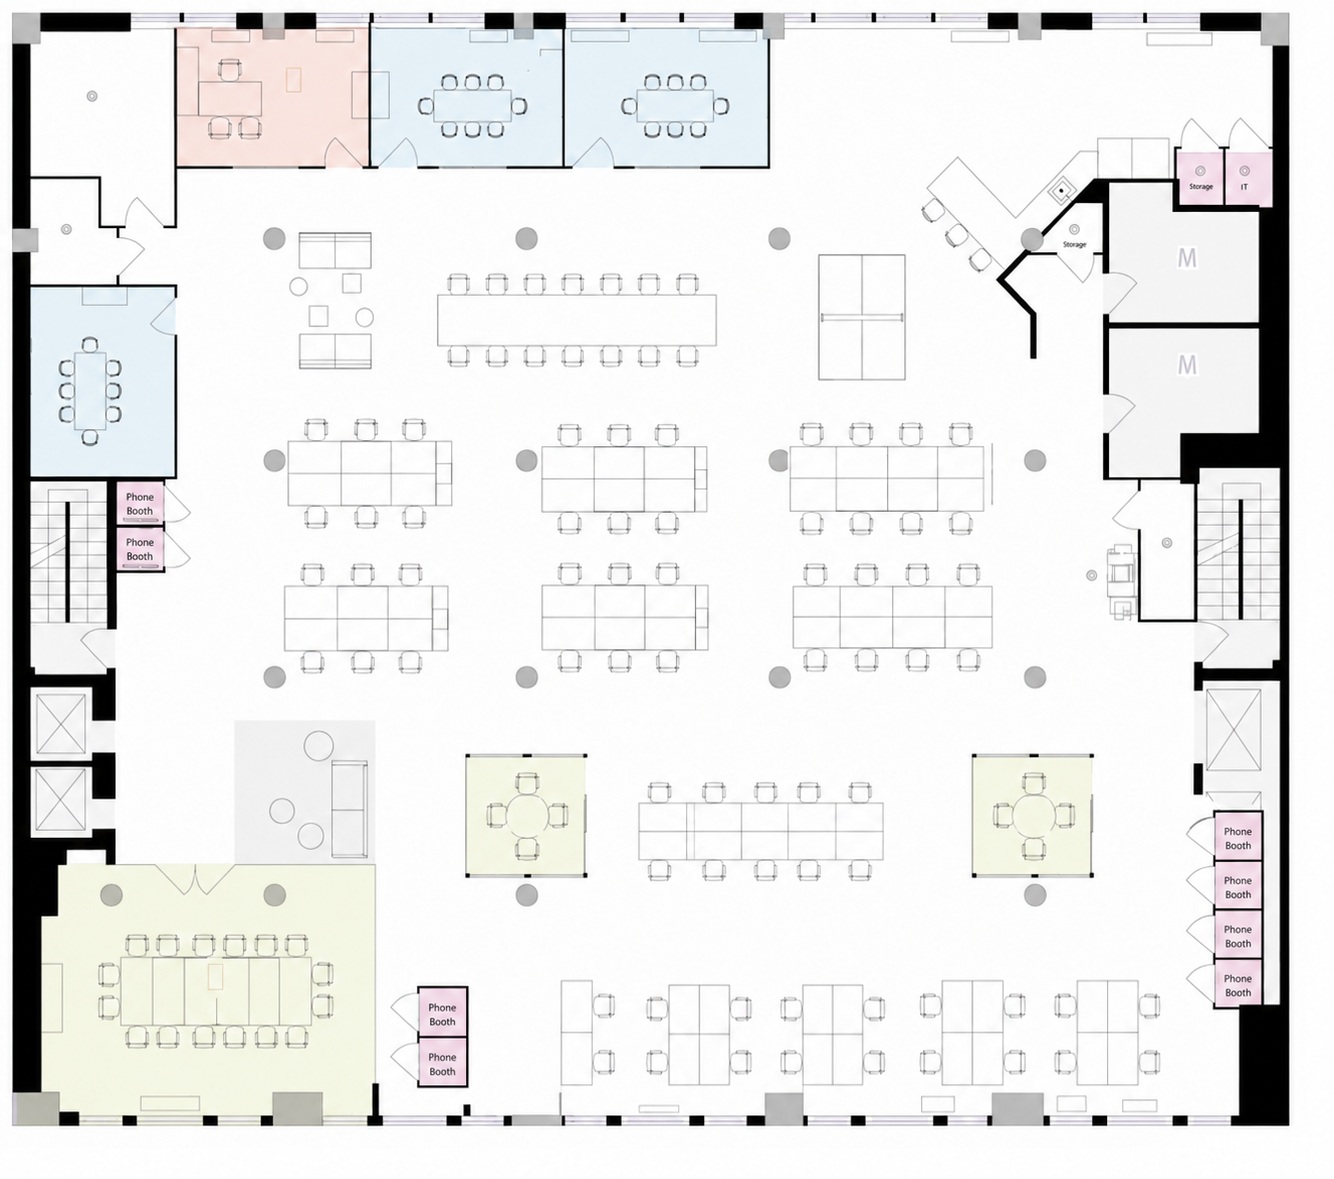
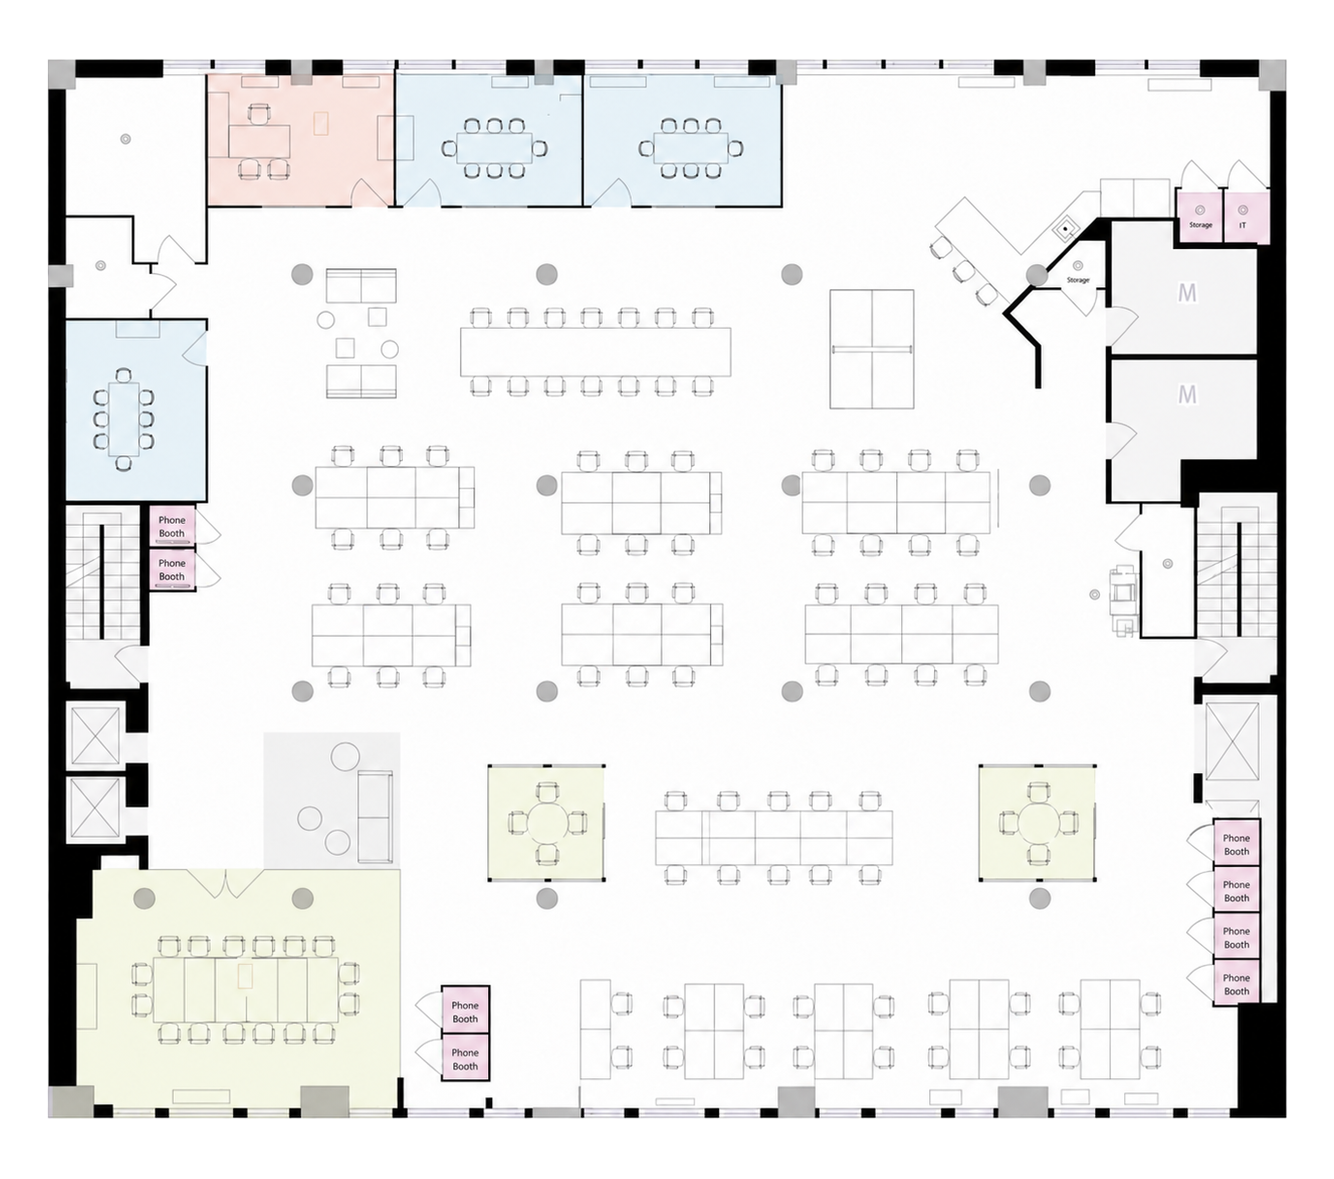
Floor heading -> 'As it stands'; align both floor plans to identical building footprint for clean test-fit/as-built toggle diff

diff --git a/index.html b/index.html
@@ -704,7 +704,7 @@ img{display:block;max-width:100%}
 <!-- THE FLOOR -->
 <section class="scene" id="floor">
   <div class="reveal"><div class="scene-label">The Floor</div></div>
-  <div class="reveal r-d1"><h2 class="scene-title">Built for the way teams <em>actually</em> work.</h2></div>
+  <div class="reveal r-d1"><h2 class="scene-title">As it stands.</h2></div>
   <div class="reveal r-d2">
     <div class="floor-card no-img">
       <div class="floor-card-meta">